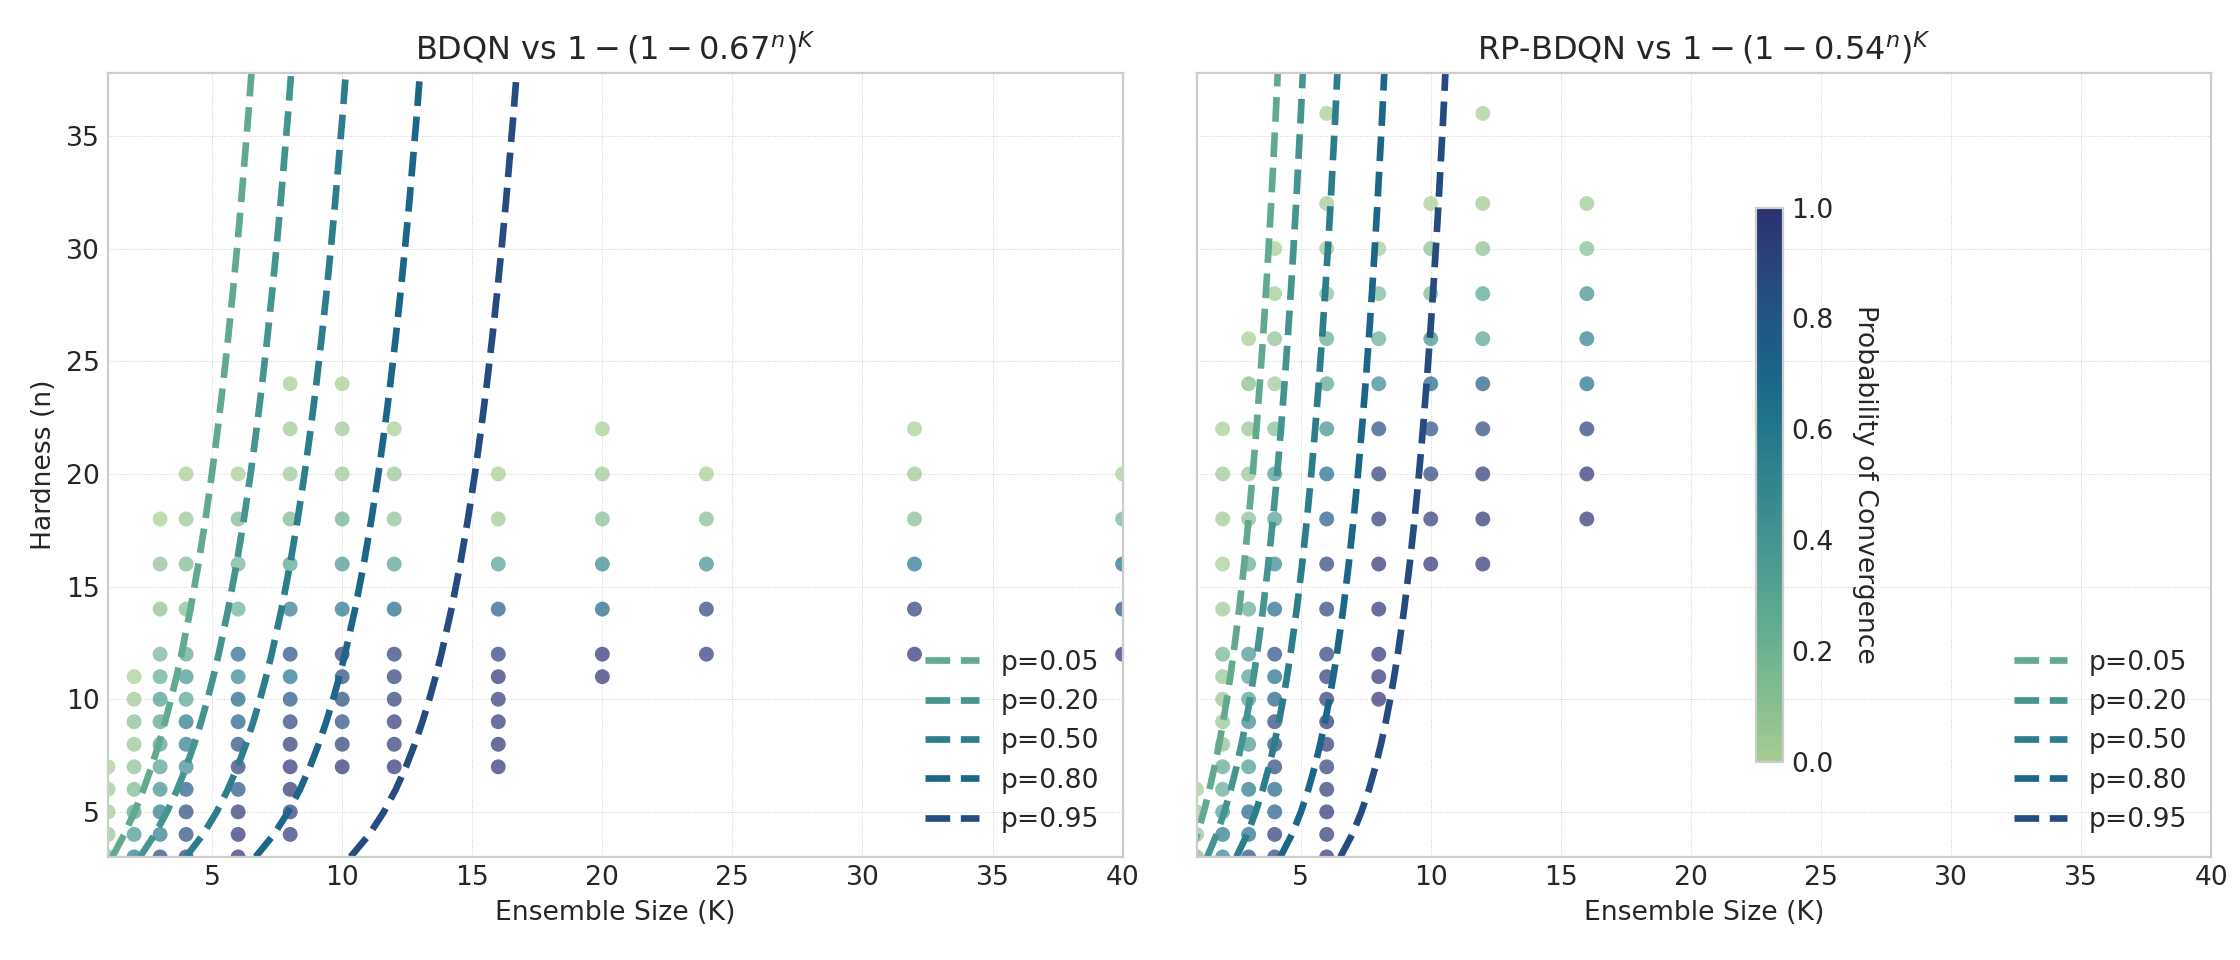
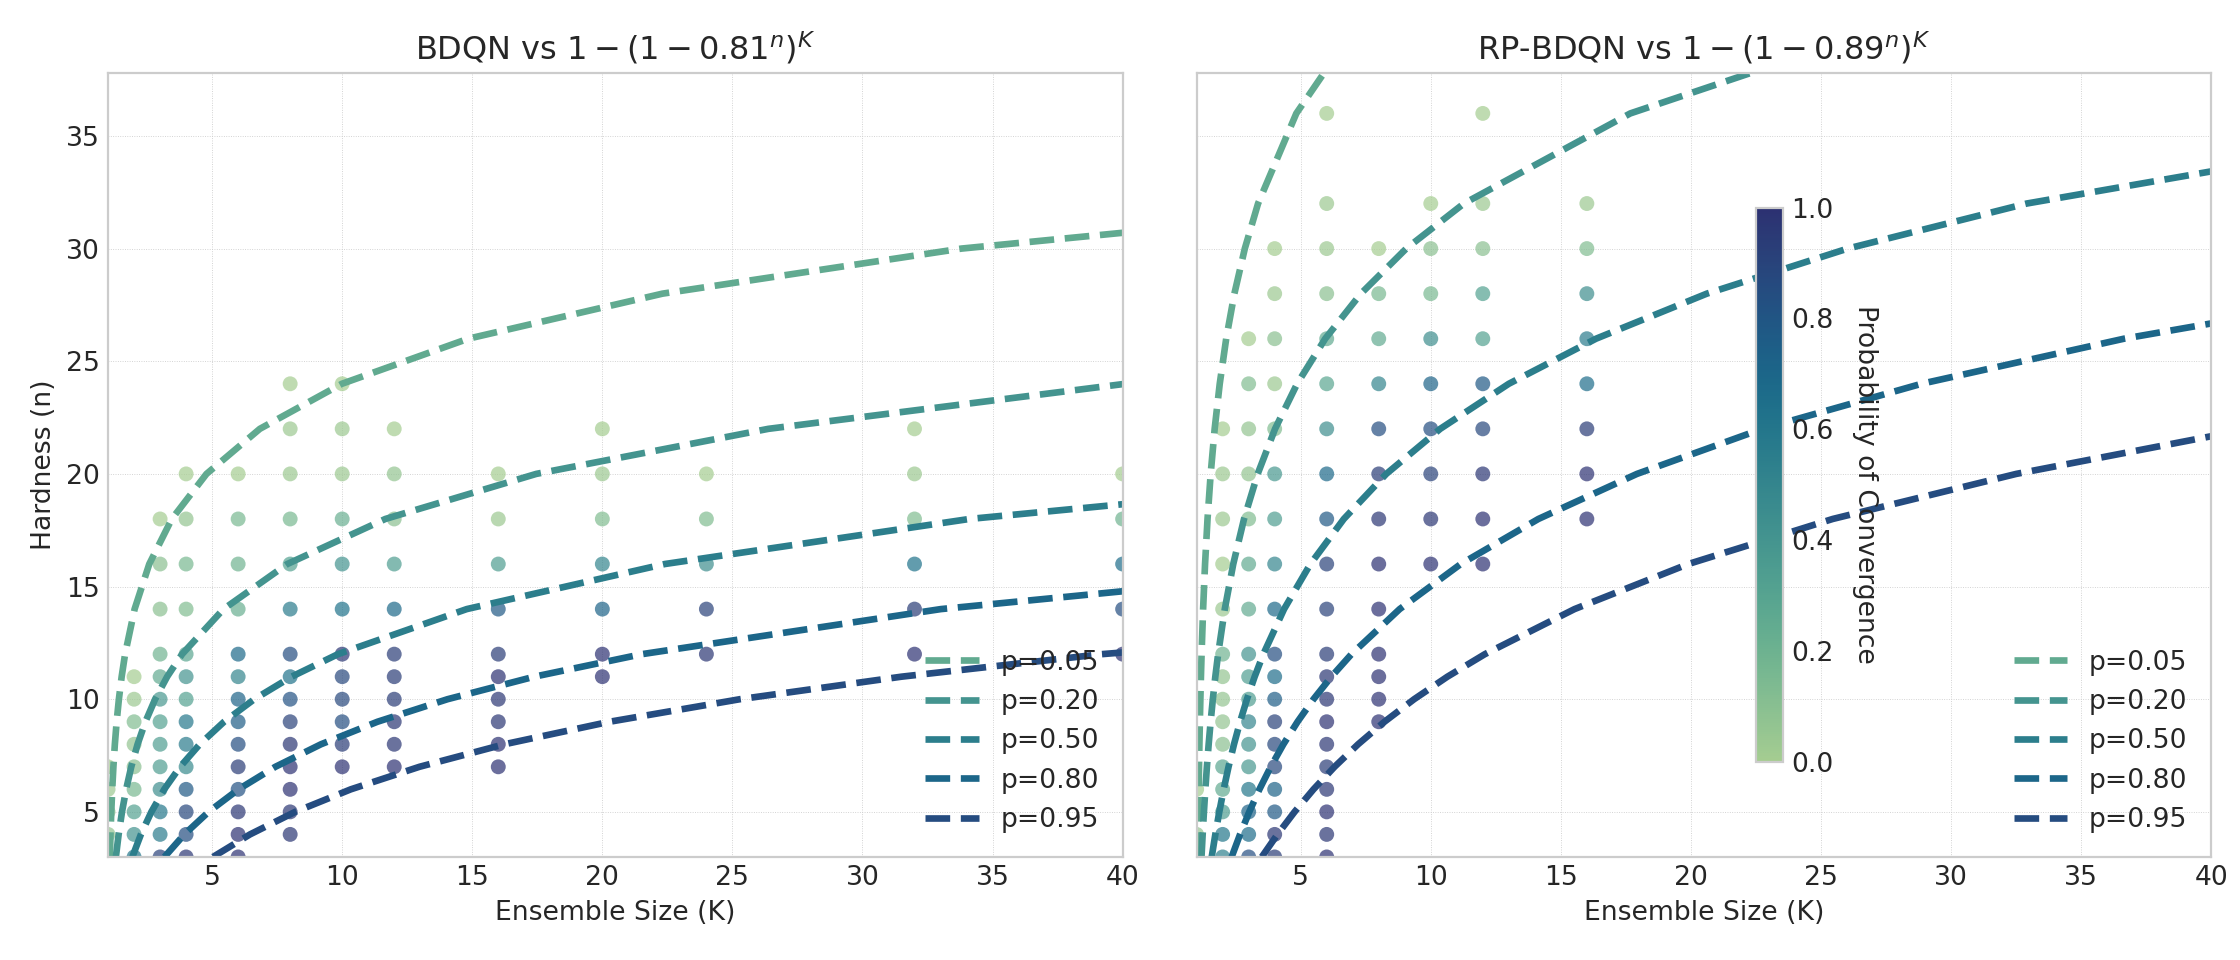
cleaning up

diff --git a/models.py b/models.py
@@ -11,6 +11,24 @@ DOUBLE_DQN = False
 T = TypeVar("T")
 
 
+@eqx.filter_jit
+def _loss(model, target_model, sample):
+    if DOUBLE_DQN:
+        best_action = model(sample.next_observations.squeeze()).argmax()
+        next_target_q_value = (target_model(sample.next_observations.squeeze()))[best_action]
+    else:
+        next_target_q_value = jnp.max(target_model(sample.next_observations.squeeze()))
+
+    next_q_value = jax.lax.stop_gradient(
+        sample.rewards + (1 - sample.dones) * gamma * next_target_q_value
+    ).squeeze()
+
+    # compute our model's prediction of the next value
+    q_pred = model(sample.observations.squeeze())
+    q_pred = q_pred[sample.actions]
+    return ((q_pred - next_q_value) ** 2).mean(), (q_pred, next_q_value)
+
+
 def keys_like(pytree, key):
     leaves, treedef = jax.tree.flatten(pytree)
     subkeys = jr.split(key, len(leaves))
@@ -70,6 +88,7 @@ class ModelWithPrior(Model):
         self.scale = float(scale)
 
     def __call__(self, x):
+        x = x.ravel()
         return super().__call__(x) + jax.lax.stop_gradient(self.prior(x) * self.scale)
 
 
@@ -88,26 +107,7 @@ class DQN(eqx.Module):
         self.action_space = action_space
 
     def loss(self, key: PRNGKeyArray, sample):
-        rkey, key = jr.split(key)
-
-        target_model = self.target_model
-        model = self.model
-
-        # compute the 'target' q value (next step)
-        if DOUBLE_DQN:  # double dqn
-            best_action = model(sample.next_observations.squeeze()).argmax()
-            next_target_q_value = (target_model(sample.next_observations.squeeze()))[best_action]
-        else:
-            next_target_q_value = jnp.max(target_model(sample.next_observations.squeeze()))
-
-        next_q_value = jax.lax.stop_gradient(
-            sample.rewards + (1 - sample.dones) * gamma * next_target_q_value
-        ).squeeze()
-
-        # compute our model's prediction of the next value
-        q_pred = model(sample.observations.squeeze())
-        q_pred = q_pred[sample.actions]
-        return ((q_pred - next_q_value) ** 2).mean(), (q_pred, next_q_value)
+        return _loss(self.model, self.target_model, sample)
 
     def action(self, observation: Any, *args, **kwargs):
         return self.model(observation).argmax()
@@ -158,37 +158,24 @@ class Bootstrapped(DQN):
     def __len__(self):
         return self.ensemble_size
 
+    def loss_all(self, samples):
+        def loss_single(sample, model_index):
+            s = self[model_index]
+            return eqx.filter_vmap(lambda smp: _loss(s.model, s.target_model, smp))(sample)
+
+        return eqx.filter_vmap(loss_single)(samples, jnp.arange(self.ensemble_size))
+
     def loss(self, key: PRNGKeyArray, sample):
-        rkey, subkey, key = jr.split(key, 3)
-
-        model_index = jr.randint(subkey, (), 0, self.ensemble_size)
-        self = self[model_index]
-
-        target_model = self.target_model
-        model = self.model
-
-        # compute the 'target' q value (next step)
-        if DOUBLE_DQN:
-            best_action = model(sample.next_observations.squeeze()).argmax()
-            next_target_q_value = (target_model(sample.next_observations.squeeze()))[best_action]
-        else:
-            next_target_q_value = jnp.max(target_model(sample.next_observations.squeeze()))
-
-        next_q_value = jax.lax.stop_gradient(
-            sample.rewards + (1 - sample.dones) * gamma * next_target_q_value
-        ).squeeze()
-
-        # compute our model's prediction of the next value
-        q_pred = model(sample.observations.squeeze())
-        q_pred = q_pred[sample.actions]
-        return ((q_pred - next_q_value) ** 2).mean(), (q_pred, next_q_value)
+        model_index = jr.randint(key, (), 0, self.ensemble_size)
+        s = self[model_index]
+        return _loss(s.model, s.target_model, sample)
 
     def q_pred_all(self, sample):
-        vs = []
-        for m_index in range(self.ensemble_size):
+        def wrp(m_index):
             m = self[m_index]
-            vs.append(eqx.filter_vmap(m.model)(sample.next_observations.squeeze()))
-        return jnp.array(vs)
+            return eqx.filter_vmap(m.model)(sample.next_observations.squeeze())
+
+        return eqx.filter_vmap(wrp)(jnp.arange(self.ensemble_size))
 
     def action(self, observation: Float[Array, "obs_size"], *_, index=None, **kws):
         assert index is not None

diff --git a/main.py b/main.py
@@ -70,7 +70,7 @@ class Config(eqx.Module):
 
 
 @eqx.filter_jit
-def main(key=None, cfg=Config(), debug=False):
+def main(key: PRNGKeyArray = None, cfg: Config = Config(), debug: bool = False):
     assert key is not None, "Please specify 'key' as an argument to main"
     if debug:
         jax.debug.print(
@@ -146,9 +146,11 @@ def main(key=None, cfg=Config(), debug=False):
     def train(rb, model, opt_state, key):
         def loss_wrap(model, key):
             key, fkey = jr.split(key)
-            keys = jr.split(fkey, cfg.batch_size * cfg.ensemble_size)
             samples = rb.sample(key, cfg.batch_size * cfg.ensemble_size)
-            loss, aux = eqx.filter_vmap(model.loss)(keys, samples)
+            samples = jax.tree.map(
+                lambda arr: arr.reshape(cfg.ensemble_size, cfg.batch_size, *arr.shape[1:]), samples
+            )
+            loss, aux = model.loss_all(samples)
             return loss.mean(), aux
 
         (loss, info), grads = eqx.filter_value_and_grad(
@@ -206,6 +208,9 @@ def main(key=None, cfg=Config(), debug=False):
         return carry_dyn, None
 
     n_iters = rb.buffer_size // cfg.num_envs
+
+    if debug:
+        jax.debug.print("Filling the replay buffer...")
 
     carry = (model, rb, (obs, state))
     carry_dyn, carry_st = eqx.partition(carry, eqx.is_array)
@@ -320,7 +325,7 @@ def compress_to(x, T=100):
 
 
 def schedule_runs(
-    N: int, cfg: Config, output_root: str, concurrent: int = max_trainings_in_parallel
+    N: int, cfg: Config, output_root: str, concurrent: int = max_trainings_in_parallel, debug=False
 ):
     # This function just reports results in a nice format
     VERSION = 3
@@ -354,7 +359,7 @@ def schedule_runs(
             ckeys = jax.device_put(ckeys, sharding)
             if _i == 0:
                 jax.debug.visualize_array_sharding(ckeys)
-        _, logs = eqx.filter_vmap(eqx.Partial(main, cfg=cfg))(ckeys)
+        _, logs = eqx.filter_vmap(eqx.Partial(main, cfg=cfg, debug=debug))(ckeys)
 
         for tr, m_indices, w_diff in zip(
             logs["train_reward"], logs["model_indices"], logs["w_diff"]
@@ -448,3 +453,11 @@ def exp_heatmap():
 
 if __name__ == "__main__":
     exp_heatmap()
+    """
+    schedule_runs(
+        10,
+        Config(hardness=20, kind="bootrp", ensemble_size=20, num_episodes=5_000),
+        output_root="results/tmp",
+        debug=True,
+    )
+    """

diff --git a/evaluate.py b/evaluate.py
@@ -194,14 +194,14 @@ def _fit_beta(df: pd.DataFrame, kind: str):
     def loss(b):
         if b <= 0 or b >= 1:
             return 1e18
-        p_hat = (1 - b ** df["ensemble_size"]) ** df["hardness"]
+        p_hat = 1 - (1 - b ** df["hardness"]) ** df["ensemble_size"]
         return np.mean((p_hat - df["weak_convergence"]) ** 2)
 
     res = minimize_scalar(loss, bounds=(1e-6, 1 - 1e-6), method="bounded")
     beta = res.x
 
     # compute predicted vs observed
-    p_hat = (1 - beta ** df["ensemble_size"]) ** df["hardness"]
+    p_hat = 1 - (1 - beta ** df["hardness"]) ** df["ensemble_size"]
 
     y = df["weak_convergence"].values
     mse = np.mean((p_hat - y) ** 2)
@@ -214,16 +214,10 @@ def _fit_beta(df: pd.DataFrame, kind: str):
 
 
 def compute_frontier(df: pd.DataFrame, kind: str, p: float, all_hardnesses) -> pd.DataFrame:
-    """
-    Theoretical frontier K(n) that attains probability p with the β
-    estimated by `_fit_beta`.  Works for both 'boot' and 'bootrp'.
-    """
     beta, *_ = _fit_beta(df, kind)
     n_vals = all_hardnesses
 
-    k_vals = np.log(1 - p ** (1 / n_vals)) / np.log(beta)
-
-    # np.log(1 - p) / np.log(1 - beta**n_vals)
+    k_vals = np.log(1 - p) / np.log(1 - beta**n_vals) + 1
 
     keep = (k_vals > 0) & np.isfinite(k_vals)
     return pd.DataFrame({"ensemble_size": k_vals[keep], "hardness": n_vals[keep]})
@@ -313,9 +307,6 @@ def plot_scatter_with_frontier(p_levels=np.array([0.05, 0.2, 0.5, 0.8, 0.95])):
 
 
 def plot_residuals():
-    """
-    Generates a publication-quality plot of the scaling law residuals.
-    """
     # Use a clean style suitable for papers
     plt.style.use("seaborn-v0_8-whitegrid")
 
